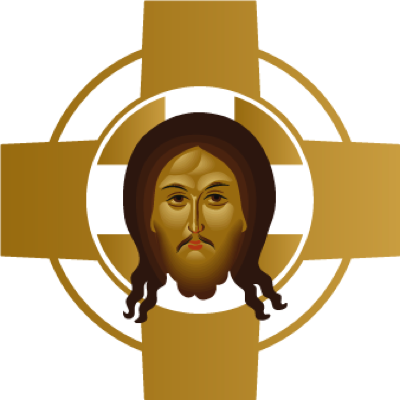
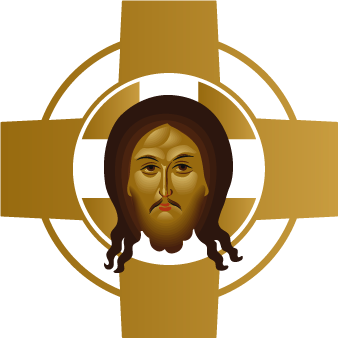
fix

diff --git a/scripts/partners-fill-covers.php b/scripts/partners-fill-covers.php
@@ -154,9 +154,9 @@ function downloadSvgWithEmbeddedImage(string $url, string $filepath, string $use
 
 /**
  * Скачивает SVG (без встроенного растра) и конвертирует в растровый файл.
- * Сначала пробует Imagick (если собран с librsvg), затем rsvg-convert или convert в системе.
+ * $backgroundColor: например 'white' для белого фона (rsvg-convert --background-color).
  */
-function downloadSvgAndConvertToRaster(string $url, string $filepath, string $userAgent): bool
+function downloadSvgAndConvertToRaster(string $url, string $filepath, string $userAgent, ?string $backgroundColor = null): bool
 {
     $svg = fetchUrl($url, $userAgent, 25);
     if ($svg === null || $svg === '') {
@@ -176,6 +176,10 @@ function downloadSvgAndConvertToRaster(string $url, string $filepath, string $us
             $im->setResolution(200, 200);
             $im->readImage($tmpSvg);
             $im->setImageFormat('png');
+            if ($backgroundColor !== null && $backgroundColor !== '') {
+                $im->setImageBackgroundColor($backgroundColor);
+                $im = $im->flattenImages();
+            }
             $im->writeImage($tmpPng);
             $im->clear();
             $im->destroy();
@@ -187,13 +191,15 @@ function downloadSvgAndConvertToRaster(string $url, string $filepath, string $us
         }
     }
     if (!$ok && is_executable_available('rsvg-convert')) {
+        $bg = ($backgroundColor !== null && $backgroundColor !== '') ? ' --background-color=' . escapeshellarg($backgroundColor) : '';
         $out = [];
-        @exec('rsvg-convert -o ' . escapeshellarg($filepath) . ' ' . escapeshellarg($tmpSvg) . ' 2>&1', $out);
+        @exec('rsvg-convert' . $bg . ' -o ' . escapeshellarg($filepath) . ' ' . escapeshellarg($tmpSvg) . ' 2>&1', $out);
         $ok = is_file($filepath) && filesize($filepath) >= 100;
     }
     if (!$ok && is_executable_available('convert')) {
         $out = [];
-        @exec('convert ' . escapeshellarg($tmpSvg) . ' ' . escapeshellarg($filepath) . ' 2>&1', $out);
+        $bg = ($backgroundColor !== null && $backgroundColor !== '') ? ' -background ' . escapeshellarg($backgroundColor) . ' -flatten' : '';
+        @exec('convert ' . escapeshellarg($tmpSvg) . $bg . ' ' . escapeshellarg($filepath) . ' 2>&1', $out);
         $ok = is_file($filepath) && filesize($filepath) >= 100;
     }
     @unlink($tmpSvg);
@@ -233,21 +239,25 @@ function downloadToFile(string $url, string $filepath, string $userAgent): bool
     return file_put_contents($filepath, $data) !== false;
 }
 
-function coverFilename(int $id): string
+function coverFilename(int $id, string $ext = 'jpg'): string
 {
-    return "partner-{$id}.jpg";
+    return "partner-{$id}.{$ext}";
 }
 
 const LOGO_SIZE = 400;
 
-function resizeToUniformSize(string $filepath): bool
+function resizeToUniformSize(string $filepath, string $format = 'jpg'): bool
 {
     try {
         $driver = extension_loaded('imagick') ? 'imagick' : 'gd';
         $manager = new \Intervention\Image\ImageManager(['driver' => $driver]);
         $img = $manager->make($filepath);
         $img->fit(LOGO_SIZE, LOGO_SIZE);
-        $img->encode('jpg', 88);
+        if (strtolower($format) === 'png') {
+            $img->encode('png');
+        } else {
+            $img->encode('jpg', 88);
+        }
         $img->save($filepath);
         return true;
     } catch (\Throwable $e) {
@@ -283,7 +293,9 @@ foreach ($items as $item) {
     if (strpos($site, 'http') !== 0) {
         $site = 'https://' . $site;
     }
-    $filename = coverFilename($item->id);
+    $isRhm = (strpos($site, 'rhm.agency') !== false);
+    $ext = $isRhm ? 'png' : 'jpg';
+    $filename = coverFilename($item->id, $ext);
     $filepath = $imagesDir . '/' . $filename;
 
     $html = fetchUrl($site, $ua);
@@ -317,7 +329,7 @@ foreach ($items as $item) {
     if (stripos($logoUrl, '.svg') !== false) {
         $downloaded = downloadSvgWithEmbeddedImage($logoUrl, $filepath, $ua);
         if (!$downloaded) {
-            $downloaded = downloadSvgAndConvertToRaster($logoUrl, $filepath, $ua);
+            $downloaded = downloadSvgAndConvertToRaster($logoUrl, $filepath, $ua, $isRhm ? 'white' : null);
         }
         if (!$downloaded) {
             $failed[] = $item->id . ': ' . $item->title . ' (SVG: нет встроенного растра и конвертация Imagick недоступна)';
@@ -329,7 +341,14 @@ foreach ($items as $item) {
         continue;
     }
 
-    resizeToUniformSize($filepath);
+    resizeToUniformSize($filepath, $ext);
+
+    if ($isRhm) {
+        $oldJpg = $imagesDir . '/' . coverFilename($item->id, 'jpg');
+        if (is_file($oldJpg)) {
+            @unlink($oldJpg);
+        }
+    }
 
     $coverPath = '/images/' . $filename;
     $item->cover = $coverPath;
@@ -345,5 +364,5 @@ if (!empty($failed)) {
 echo "\nОбновлено записей: " . count($updated) . "\n";
 
 if (count($updated) > 0) {
-    echo "Добавьте в git:\n  git add public/images/partner-*.jpg scripts/partners-fill-covers.php\n  git commit -m \"Логотипы партнёров с сайтов\"\n";
+    echo "Добавьте в git:\n  git add public/images/partner-*.* scripts/partners-fill-covers.php\n  git commit -m \"Логотипы партнёров с сайтов\"\n";
 }
